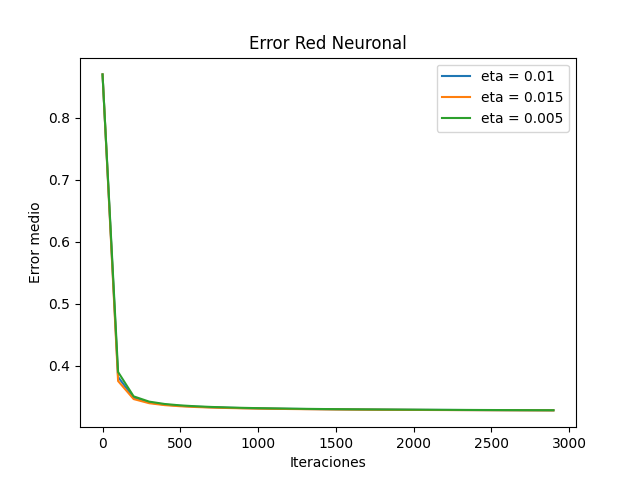
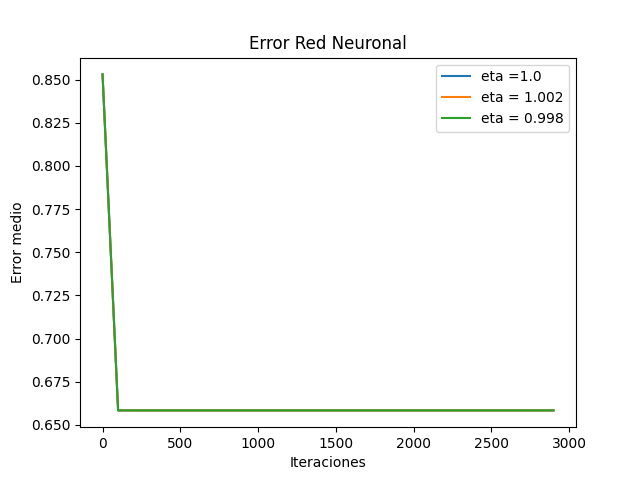
Parfait

diff --git a/App/templates/sinteticos.html b/App/templates/sinteticos.html
@@ -7,13 +7,29 @@
         <div class="form-holder">
             <div class="form-content">
                 <div class="form-items">
-                    <h1>Hiperparametros - MLP</h1>
+                    <h1>Datos Sinteticos</h1>
                     <br>
-                    <p>Hiperparametros en una red neuronal multicapa.</p>
+                    <p>Datos sinteticos en donde debes asignar la cantidad de datos, es decir, las muestras. Donde debes
+                        darle la desviación estandar y la cantidad de centros. 
+                    </p>
                     <br>
-                    <form class="requires-validation" novalidate action="{{ url_for('implementation') }}" method="POST">
+                    <form class="requires-validation" novalidate action="{{ url_for('resultados_sinteticos') }}" method="POST">
+                        <div class="col-md-12">
+                            <label for="muestras">Muestras</label>
+                            <input class="form-control" type="text" name="muestras" placeholder="Entero" required>
+                        </div>
+                        <br>
 
-                        
+                        <div class="col-md-12">
+                            <label for="std">Desviación Estandar</label>
+                            <input class="form-control" type="text" name="std" placeholder="Entero" required>
+                        </div>
+                        <br>
+                        <div class="col-md-12">
+                            <label for="centros">Centros</label>
+                            <input class="form-control" type="text" name="centros" placeholder="Entero" required>
+                        </div>
+                        <br>
                         <div class="col-md-12">
                             <label for="iteraciones">Iteraciones</label>
                             <input class="form-control" type="text" name="iteraciones" placeholder="Entero" required>
@@ -47,7 +63,7 @@
                         </div>
                         <br>
                         <div class="form-button mt-3">
-                            <input class="miboton" type="submit" value="Calcular" name="Calcular" onclick="{{url_for('results')}}">
+                            <input class="miboton" type="submit" value="Calcular" name="Calcular" onclick="toggleImage()">
                         </div>
                     </form>
                 </div>
@@ -55,6 +71,12 @@
         </div>
     </div>
 </div>
-
-
+<div style="display: flex;">
+    <div>
+      <img src="{{ url_for('static', filename='images/bloc.png') }}" alt="Imagen 1" >
+    </div>
+    <div>
+      <img src="{{ url_for('static', filename='images/bloc2.png') }}" alt="Imagen 2">
+    </div>
+</div>
 {% endblock %}

diff --git a/App/templates/index.html b/App/templates/index.html
@@ -2,16 +2,18 @@
 {% block content %}
 <div class="w3-content" style="max-width: 1532px;">
   <div class="w3-row-padding" id="about">
-    <div class="w3-col l4 s12">
+    <div class="w3-col l6 s12">
       <h3>Proyecto Sistemas Inteligentes Computacionales</h3>
-      <h6>Aquí habrá información sobre métricas y las fotos.</h6>
-      <p>We accept: <i class="fa fa-credit-card w3-large"></i> <i class="fa fa-cc-mastercard w3-large"></i> 
-        <i class="fa fa-cc-amex w3-large"></i> <i class="fa fa-cc-cc-visa w3-large"></i>
-        <i class="fa fa-cc-paypal w3-large"></i></p>
+      <h6>El proyecto fue creado con el fin de suministrar una herramienta en la cual se pueda 
+        visualizar la implementación de Sistemas inteligentes, mas precisamente Redes Neuronales 
+          en al menos 2 casos diferentes.
+            La implementación del proyecto consta de 3 bases de datos conocidas y una zona de 
+            playground donde el usuario puede crear datos sintéticos para hacer mas directa la interacción 
+            entre los datos de entrada y el aprendizaje de la Red Neuronal.</h6>
     </div>
-    <div class="w3-col l8 s12">
+    <div class="w3-col l6 s12">
       <!-- Image of location/map -->
-      <img src="/imagenes/red.png" class="w3-image w3-greyscale" style="width: 100%;">
+      <img src="{{ url_for('static', filename='images/inteligencia.jpg') }}" class="w3-image w3-greyscale" style="width: 100%;">
     </div>
   </div>
 

diff --git a/App/templates/implementation.html b/App/templates/implementation.html
@@ -20,7 +20,6 @@
                                 <option type="text" value="1">Titanic</option>
                                 <option type="text" value="2">Iris</option>
                                 <option type="text" value="3">Snail</option>
-                                <option type = "text" value="4">Sinteticos</option>
                             </select>
                         </div>
                         <br>
@@ -58,7 +57,7 @@
                         </div>
                         <br>
                         <div class="form-button mt-3">
-                            <input class="miboton" type="submit" value="Calcular" name="Calcular" onclick="{{url_for('results')}}">
+                            <input class="miboton" type="submit" value="Calcular" name="Calcular">
                         </div>
                     </form>
                 </div>

diff --git a/App/templates/script.js b/App/templates/script.js
@@ -1,0 +1,9 @@
+function toggleImage() {
+    var image = document.getElementById("myImage");
+    if (image.style.display === "none") {
+      image.style.display = "block";
+    } else {
+      image.style.display = "none";
+    }
+  }
+  

diff --git a/App/routes.py b/App/routes.py
@@ -34,14 +34,57 @@ def save_to_csv(data,perdida):
         writer = csv.writer(file)
         writer.writerow(data)
 
-@app.route('/Sinteticos',  methods=['GET', 'POST'])
+@app.route('/sinteticos', methods=['GET', 'POST'])
 def sinteticos():
     global valuesS
     valuesS = [x for x in request.form.values()]
     print(valuesS)
     return render_template('sinteticos.html')
 
-@app.route('/results',  methods=['GET'])
+@app.route('/resultados_sinteticos', methods=['GET', 'POST'])
+def resultados_sinteticos():
+    global valuesS
+    valuesS = [x for x in request.form.values()]
+    muestras = int(valuesS[0])
+    std = float(valuesS[1])
+    centros = int(valuesS[2])
+    iteracionesS = int(valuesS[3])
+    etaS = float(valuesS[4])
+    funcionesS = int(valuesS[5])
+    neuronas1S = int(valuesS[6])
+    neuronas2S = int(valuesS[7])
+    x1,X1,y1,X_test1,Y_test2= blob(muestras,centros,std)
+    plt.clf()
+    plt.figure()
+    print(np.unique(y1))
+    unique_labels = np.unique(y1)
+    for label in unique_labels:
+        color = plt.rcParams['axes.prop_cycle'].by_key()['color'][label]
+        indices = np.where(y1 == label)[0]
+        plt.scatter(X1[indices, 0], X1[indices, 1], c=color, edgecolor='black', label=f'Clase {int(label)}')
+    plt.xlabel('Feature 1')
+    plt.ylabel('Feature 2')
+    plt.title('Valores de X1 respecto a y1')
+    plt.legend(loc='lower left')
+    plot_filename = "./App/static/images/bloc.png"
+    plt.savefig(plot_filename)
+    funcion2 = seleccionarFA(funcionesS)
+    capa0_1,capa1_1,capa2_1,errores_1,iteraciones,l3_error_1 = RN2(X_test1,Y_test2,x1,funcion2,eta = etaS,ite=iteracionesS,neuronas_1=neuronas1S,neuronas_2=neuronas2S)
+    capa0_2,capa1_2,capa2_2,errores_2,iteraciones,l3_error_2 = RN2(X_test1,Y_test2,x1,funcion2,eta=etaS+0.002,neuronas_1=neuronas1S,neuronas_2=neuronas2S)
+    capa0_3,capa1_3,capa2_3,errores_3,iteraciones,l3_error_3 = RN2(X_test1,Y_test2,x1,funcion2,eta=etaS-0.002,neuronas_1=neuronas1S,neuronas_2=neuronas2S)
+    plt.clf()
+    plt.figure()
+    plt.title('Error Red Neuronal')
+    plt.plot(iteraciones,errores_1)
+    plt.plot(iteraciones,errores_2)
+    plt.plot(iteraciones,errores_3)
+    plt.ylabel('Error medio')
+    plt.legend([f'eta ={etaS} ',f'eta = {etaS+0.002}',f'eta = {etaS-0.002}'])
+    plot_filename2 = "./App/static/images/bloc2.png"
+    plt.savefig(plot_filename2)
+    return render_template('sinteticos.html')
+
+@app.route('/results',  methods=['GET','POST'])
 def results():
     try:
         print('lista: ', values)
@@ -54,9 +97,9 @@ def results():
         print(data_type)
         x,X,Y,X_test,Y_test = seleccionarDB(data_type)
         funcion = seleccionarFA(funciones)
-        capa0_1,capa1_1,capa2_1,errores_1,iteraciones,l3_error_1 = RN2(X,Y,x,funcion,eta = eta)
-        capa0_2,capa1_2,capa2_2,errores_2,iteraciones,l3_error_2 = RN2(X,Y,x,funcion,eta = eta+0.005)
-        capa0_3,capa1_3,capa2_3,errores_3,iteraciones,l3_error_3 = RN2(X,Y,x,funcion,eta = eta-0.005)
+        capa0_1,capa1_1,capa2_1,errores_1,iteraciones,l3_error_1 = RN2(X,Y,x,funcion,eta = eta,neuronas_1=neuronas1,neuronas_2=neuronas2)
+        capa0_2,capa1_2,capa2_2,errores_2,iteraciones,l3_error_2 = RN2(X,Y,x,funcion,eta = eta+0.002,neuronas_1=neuronas1,neuronas_2=neuronas2)
+        capa0_3,capa1_3,capa2_3,errores_3,iteraciones,l3_error_3 = RN2(X,Y,x,funcion,eta = eta-0.002,neuronas_1=neuronas1,neuronas_2=neuronas2)
         loss, = np.mean(np.abs(l3_error_1),axis=0)
         save_to_csv(values[:-1],loss)
         plt.figure()
@@ -66,12 +109,13 @@ def results():
         plt.plot(iteraciones,errores_3)
         plt.xlabel('Iteraciones')
         plt.ylabel('Error medio')
-        plt.legend(['eta = '+str(0.01),'eta = '+str(0.015),'eta = '+str(0.005)])
+        plt.legend([f'eta ={eta} ',f'eta = {eta+0.002}',f'eta = {eta-0.002}'])
         #plt.show()
         plt.savefig(f"./App/static/images/result_random.png", transparent = True)
         plt.clf()
         return render_template('results.html',loss=np.round(loss,3))
-    except:
+    except Exception as e:
+        print("Exception:", e)
         return render_template('errores.html')
 
 @app.route('/Registro',methods=['GET'])

diff --git a/App/redes.py b/App/redes.py
@@ -8,8 +8,8 @@ import pandas as pd
 import numpy as np
 from sklearn.model_selection import train_test_split
 from sklearn.preprocessing import LabelEncoder
-#from sklearn.preprocessing import MinMaxScaler
-#from sklearn.datasets import make_blobs
+from sklearn.preprocessing import MinMaxScaler
+from sklearn.datasets import make_blobs
 from matplotlib.backends.backend_agg import FigureCanvasAgg as FigureCanvas
 import io
 
@@ -63,6 +63,22 @@ def seleccionarFA(numero):
 """
 Ahora definimos quien va a ser tanto el X,Y
 """
+
+def blob(muestras,centros,std):
+    X,y = make_blobs(
+        n_samples    = muestras, 
+        n_features   = 2, 
+        centers      = centros, 
+        cluster_std  = std, 
+        shuffle      = True, 
+        random_state = 0
+       )
+    scaler = MinMaxScaler()
+    y = np.reshape(y, (-1, 1))
+    y_normalized = scaler.fit_transform(y)
+    x_inicial = 2
+    X_train, X_test, Y_train, Y_test = train_test_split(X,y_normalized , test_size=0.2, random_state=42)
+    return x_inicial,X,y,X_train,Y_train
 
 #Red neuronal con arquitectura x-10-7-1
 
